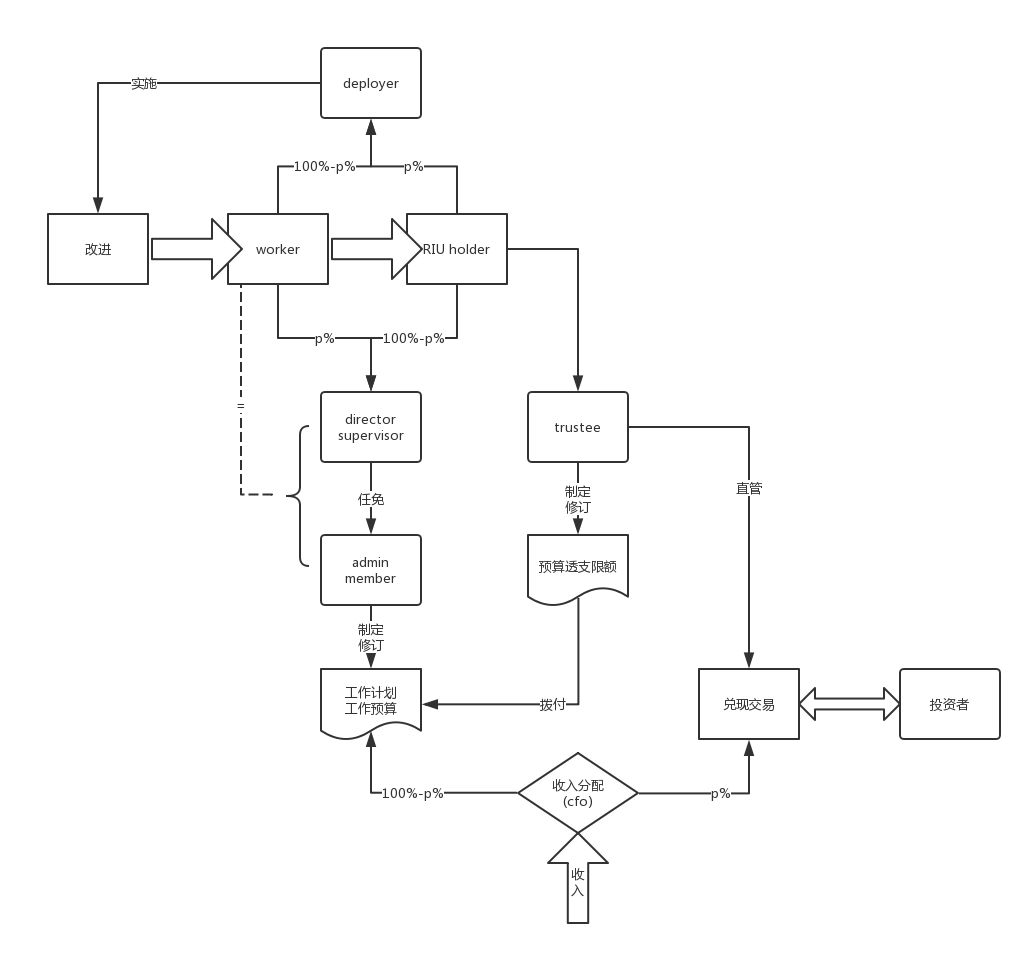
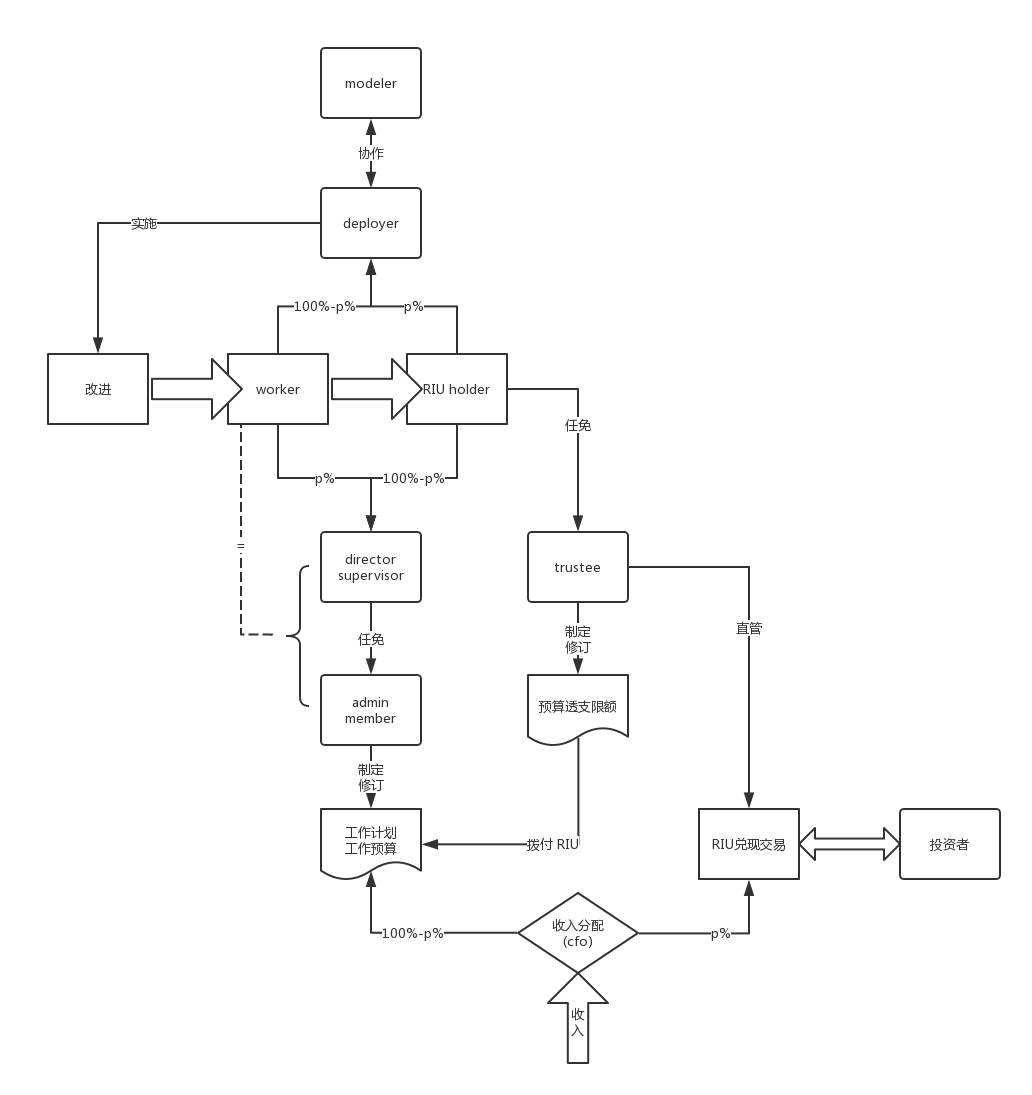
1609 update

diff --git a/1609/com.md b/1609/com.md
@@ -1,7 +1,9 @@
-##1609
+## 1609
+
 共同体模型
 
-###角色清单
+### 角色清单
+
 * 建模者 modeler
 * 部署者 deployer
 * 决策者 director
@@ -10,78 +12,126 @@
 * 任务承担者 worker
 * 受托者 trustee
 
-###资产清单
+### 资产清单
+
 * 记账单位
 	* 法币
 	* 待兑现利益 RIU：Recorded Interest Unit
-* 共同体模型
-* 部署方案：
+* 信息资产
+	* 共同体模型
+    * 部署方案：
+    	* p%
+        * director、supervisor人数及任期
+        * 所使用的法律及需要的其它信息
+	* 工作计划（含预算）
+    * 工作报告（含决算）
+    * 审议报告
+	* 基本制度
+    * 具体规章
+	* 部门定义
+	* worker定义
+		* 合同
+		* 名册
+	* 会议记录
+		* 召集通知
+		* 会议纪要
+	* 记录A：按照三级决策条款2.修订定义。
+
+### 接口清单
+
+* 接口1：按照三级决策条款1.修订定义。
+
+### 权力分配
+
+#### 不可修订条款
+
+1. 本条款不可修订。内容…
+
+#### 自修订条款
+
+1. 本条款按照本条款修订。deployer书面提交。
 	* p%
-	* director、supervisor人数及任期
-	* 所使用的法律及需要的其它信息
-* 工作计划（含预算）
-* 工作报告（含决算）
-* 审议报告
-* 
-###接口清单
-* 建模
-* 部署
-* 任免
-* 决策
-* 监察
-* 计划与预算
-* 执行
-* 改进
+ 	* director席位数
+ 	* supervisor席位数
+ 	* director和supervisor任期及选举程序
+ 	* trustee任期及任免程序
+ 	* 第一届director
+ 	* 第一届supervisor
+ 	* 下一任deployer
 
-###协作过程
-* 建模
-	* 初版发布后，建模者根据反馈安排升级。
+#### 二级决策条款
 
-* 部署
-	* 设立共同体则成为首任部署者，部署者担任首届director，任命supervisor、admin。
-	* 部署者可以指定继任者，如果没有指定又不能工作，则由director、trustee按改进选项规则选举部署者。
-	* 部署者根据共同体模型设计部署方案。
-	* 建模者审议部署方案，提交报告。
-	* 如果共同体模型和部署方案修改了利益分配“待兑现利益”一节，director、turstee全体批准方才可以部署。如未改动，director全体批准即可部署。
+1. 本条款按照自修订条款1.修订。超过三分之二director同意。议事规则…
+	* 保密制度部分条款
+1. 本条款按照自修订条款1.修订。超过二分之一director同意。议事规则…
+	* director工作计划
+	* director工作报告
+	* 审议报告
+	* 任免admin
+	* 工作计划
+	* 设立、撤销部门
+	* worker合同
+	* 基本制度
+	* 保密文件的脱敏版本
+1. 本条款按照自修订条款1.修订。deployer提出，全体director同意。议事规则…
+1. 本条款按照自修订条款1.修订。deployer提出，全体director和trustee同意。议事规则…
+1. 本条款按照自修订条款1.修订。超过三分之二supervisor同意。议事规则…
+	* supervisor工作计划
+	* supervisor工作报告
+	* 审议报告
+	* 重选director
+1. 本条款按照自修订条款1.修订。trustee书面提交。
+	* 预算透支限额
+	* 重选director
+	* 重选supervisor
 
-* 任免
-	* 选举由部署者组织。
-	* director、supervisor由worker、RIU持有者选举。假设worker合同的报酬RIU总额为w，RIU总额为r，席位为x，worker手中合同的每个RIU报酬权重为r*x*p，RIU持有者持有的每个RIU权重为w*x*(100-p)。选举采用累积投票制，不对单独席位进行罢免投票，每次都全部重选。
-	* trustee由RIU持有者任免，以持有的RIU为权重。
-	* admin由director任免，一人一票。
-	* 有条件时应实现连续选举：选举人随时变更自己选票，随时根据统计结果实施任免。
+#### 三级决策条款
 
-* 监察
-	* supervisor、trustee均有权监察工作记录。
-	* 如有失职、违规，可发起罢免或重选。
+1. 本条款按照二级决策程序2.修订。admin书面提交。
+	* 工作计划草案
+	* 工作报告
+	* 具体规章
+	* worker名册（及合同）
+1. 本条款按照二级决策程序3.可修订。全体worker、RIU持有者选举。假设worker合同的报酬RIU总额为w，RIU总额为r，worker手中合同的每个RIU报酬权重为r*(100-p)，RIU持有者持有每个RIU权重为w*p。
+	* 如果deployer没有指定继任者又不能工作，选举新任deployer。
+1. 本条款按照二级决策程序3.可修订。全体worker、RIU持有者选举。假设worker合同的报酬RIU总额为w，RIU总额为r，席位为x，worker手中合同的每个RIU报酬权重为r*x*p，RIU持有持有的每个RIU权重为w*x*(100-p)。选举采用累积投票制，不对单独席位进行罢免投票，每次都全部重选。
+	* 选举director
+	* 选举supervisor
+1. 本条款按照二级决策程序4.可修订。全体RIU持有者选举，以持有的RIU为权重。
+	* 任免trustee。
 
-* 计划与预算
-	* director发布工作计划
-	* trustee确定预算透支限额，拨付等额RIU供并入预算
-	* 如需拨付的RIU超过trustee手中持有量，可以发行新RIU。
+#### 保密制度
 
-* 执行 
-	* director制定worker合同，admin组织招募签署。
-	* 需要时，director授权admin签发通用工单、通用合同。
-	* worker签署合同后需缴纳保证金，承担按合同分派的任务。
-	* 任务结束后：
-		* 工作结果验收通过，退还保证金，支付RIU。（成为RIU持有者）。
-		* 工作结果验收未通过，按合同扣除保证金，退换余额。
+1. 本条款按照自修订条款1.修订。本制度正文公开。
+1. 本条款按照自修订条款1.修订。不可修订条款、自修订条款、二级决策条款的正文以及执行记录的保密事项由这些条款自己定义，本制度不得规定。
+1. 本制度以下条款按照二级决策程序1.修订。
+	* 其它规章正文及执行记录默认为公开。
+	* 以下规章正文保密：…
+	* 以下记录保密：…
 
-* 兑现交易
-	* trustee管理兑现交易，按“价格优先、时间有限”原则撮合成交。
-	* RIU持有者可以挂单，参与兑现交易。
-	* 财务投资者可以参与兑现交易，成为RIU持有者。
+### 利益分配
 
-* 改进
-	* 任何人可以提出改进方案，预算全部使用RIU，报酬须单列。
-	* 由worker、RIU持有者选项：假设worker合同的报酬RIU总额为w，RIU总额为r，待选方案数量为x，worker手中合同的每个RIU报酬权重为r*x*(100-p)，RIU持有者持有的每个RIU权重为w*x*p。
-	* 通过立项后，方案提交者负责组织实施。由trustee拨付预算，如需拨付的RIU超过trustee手中持有量，可以发行新RIU。
-	* 项目验收由trustee负责：
-		* 工作结果验收通过，支付RIU报酬。
-		* 工作结果验收未通过，不支付RIU报酬。
-
-###分配规则
-* 待兑现利益
-	* 收入的p%用于购买RIU。现金归RIU原持有者，购得RIU由trustee持有，这部分RIU不参与投票。
-	* 收入的(100-p)%流入工作预算，归admin使用。
+1.原则：优先劣后次序与决策层级相反。
+1.本条款不可修订。每个成员设一个专户，每个专户可以容纳所有种类的资产。
+1.本条款按照自修订条款1.修订。设四个共同体专户，每个专户可以容纳所有种类的资产。分别由：deployer、trustee、director+supervisor、admin管理。
+1.本条款按照自修订条款1.修订。按照二级决策条款2.设立部门时，开设部门专户，并明确与其它专户的资源交换规则。
+1.deployer专户：，
+	1. 本条款按照自修订条款1.修订。本专户用于deployer工作经费，以及重构期间发生的短期支出。记账方式…
+	1. 本条款按照二级决策条款3.修订。每月末将director专户余额的0.5%转入本专户。
+1.本条款按照二级决策条款4.修订，trustee专户：
+	1. RIU持有者可以将RIU转入本专户，委托trustee卖出。
+	1. 投资者可以将其它资源转入本专户，委托trustee买入RIU。
+	1. 收入的p%用于购买本专户中的RIU，低价优先。交易获得的RIU支付trustee报酬后，余额转入director专户。
+	1. RIU交易由trustee按价格优先、时间优先原则撮合。
+	1. trustee从收入的p%购买的RIU中领取报酬，竞聘者须明确报酬的计算公式。
+1.本条款按照二级决策条款3.修订，director+supervisor专户：
+	1. 本专户中的RIU可以是负数，最小值由预算透支限额确定。
+	1. 收入的(100-p)%转入本专户。
+	1. 按生效的工作计划（含预算案）从本专户转入admin专户，余额不足时后续条款的支出暂缓。
+	1. supervisor按supervisor工作计划（含预算案）使用本专户余额，余额不足时后续条款的支出暂缓。
+	1. director按director工作计划（含预算案）使用本专户余额，余额不足时后续条款的支出暂缓。
+	1. deployer、director、supervisor从本专户领取报酬，director、supervisor竞聘者须明确报酬的计算公式，deployer报酬数额为director、supervisor报酬的中位数。本专户数额不足时以应发数额为权重按比例分配，等候期间不计利息。
+1.本条款按照二级决策条款1.修订，admin专户：
+	1. admin按工作计划（含预算案）调用本专户中的资源。
+	1. member的工作成果提交到本专户，从本专户领取报酬，报酬金额在合同中规定。
+	1. admin从本专户领取报酬（优先级在member之后），竞聘者须明确报酬的计算公式。本专户数额不足而等候期间不计利息。

diff --git a/1609/README.md b/1609/README.md
@@ -1,2 +1,10 @@
+## 1609
+
+1. 把股东的权力和利益剥离。权力归部署者，利益归受托者。
+1. 部署者有两种观点：
+    * 共同体的孕育者：共同体瘫痪时，以个体代替共同体一一签订合同，约定在角色完整后切换为共同体，并承担此过程的损失。
+    * 共同体的重构者：共同体瘫痪时，直接以指令改造核心架构。
+1. 这版草稿设计思路接近重构者，但不是直接指令而是草案，需要决策者和受托者同意才重构。原因是共同体瘫痪的判定条件不好界定，各共同体的部署者设计好之后重构一次，即可改为条件触发→直接指令。
+
 
 ![整体框架](1609.png)
